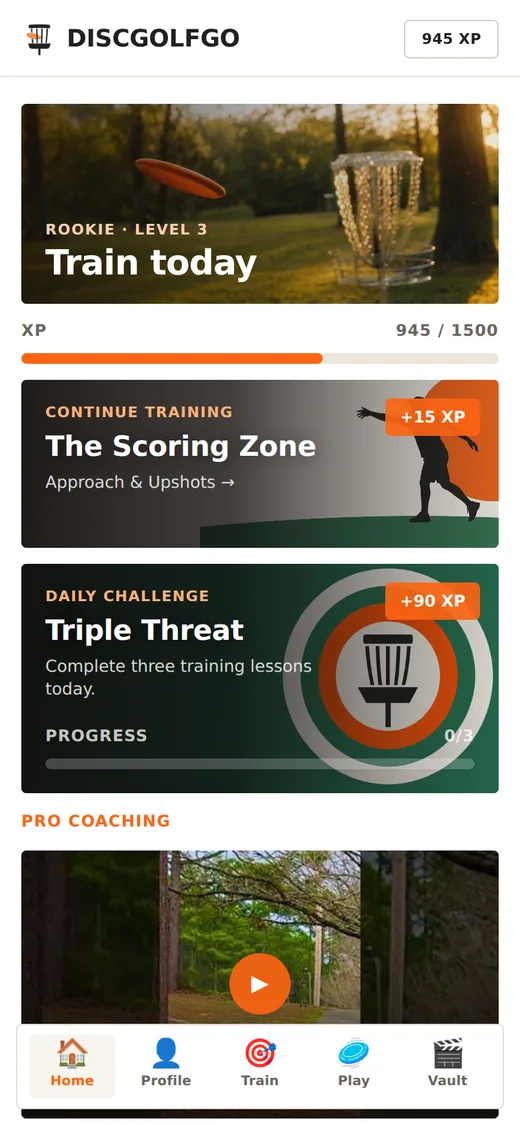
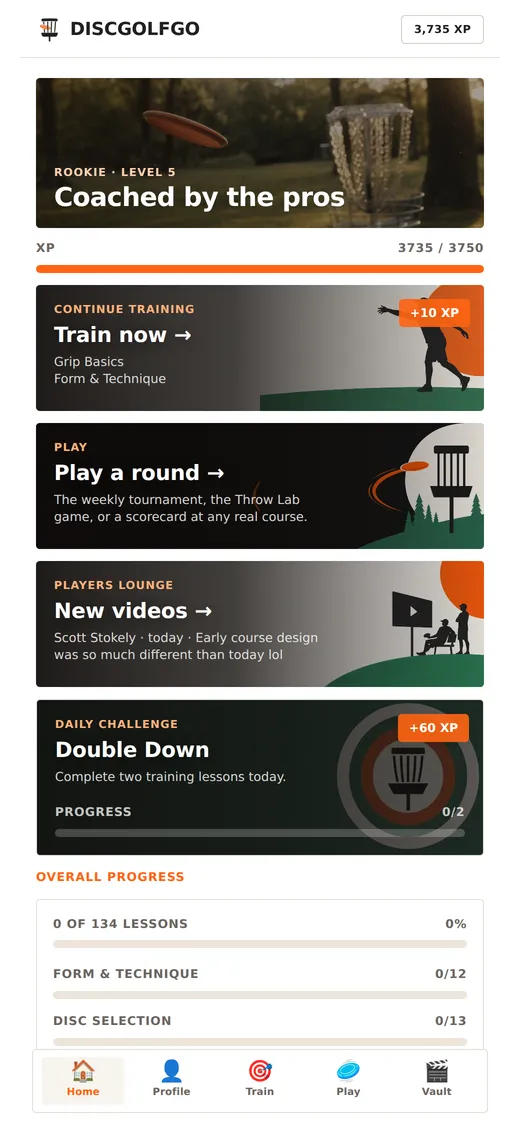
Bring the .com promo page up to date, and put the store badges in the hero (#28)
* Bring the .com promo page up to date with the app

The page still described the app as it stood before the tournament, the
boards and the lounge existed.

Added a Compete section -- the weekly tournament (one course, everyone,
two attempts, spent on tee-off), the leaderboards and the career record
-- plus a Players Lounge card in How it works, a hero bullet for the
tournament, a nav link, and a line in the training section saying fresh
coaching videos arrive filtered to the ones that teach.

Every number was re-checked against the data rather than trusted: 134
lessons, 13 skill paths, all thirteen per-category counts, 1,536 courses,
21 hole templates and 13 named pros are all still correct, and each of
the 13 pros was verified to appear as a creator in the library. The only
drift was videos 198 -> 200, in four places including a bare number in
the stat strip that a phrase match missed.

The meta description, the SoftwareApplication description and the FAQ
were updated, with two new FAQs kept in step across both the visible
list and the FAQPage data.

The three "Inside the app" screenshots were stale again -- the home shot
still read "Train today", a headline retired weeks ago, and predated the
Play and Players Lounge cards -- so all three were re-captured from the
real app: home, a lesson, and the Players Lounge in place of the
Creators vault. Thumbnails were served from local copies through route
interception rather than by relaxing TLS in the browser.
[…]

diff --git a/web/promo.html b/web/promo.html
@@ -8,19 +8,19 @@
   <link rel="icon" href="/favicon.ico?v=4" sizes="any" />
   <link rel="icon" type="image/png" sizes="32x32" href="/favicon-32.png?v=4" />
   <link rel="apple-touch-icon" href="/apple-touch-icon.png?v=4" />
-  <meta name="description" content="Disc Golf Go: learn from 13 of the world's top touring pros across 134 video lessons, play the built-in Throw Lab disc golf game, earn XP and check in at 1,500+ real courses. Free to start." />
+  <meta name="description" content="Disc Golf Go: learn from 13 of the world's top touring pros across 134 video lessons, play the built-in Throw Lab disc golf game, enter a new tournament every week, and check in at 1,500+ real courses. Free to start." />
   <link rel="canonical" href="https://discgolfgo.com/" />
 
   <!-- Open Graph (Facebook, iMessage, Slack, LinkedIn) -->
   <meta property="og:site_name" content="Disc Golf Go" />
   <meta property="og:title" content="Disc Golf Go — Coached by the pros" />
-  <meta property="og:description" content="13 touring pros. 134 video lessons. 198 videos. Train like a pro and lower your score — free on iOS &amp; Android." />
+  <meta property="og:description" content="13 touring pros. 134 video lessons. 200 videos. Train like a pro and lower your score — free on iOS &amp; Android." />
   <meta property="og:type" content="website" />
   <meta property="og:url" content="https://discgolfgo.com/" />
   <meta property="og:image" content="https://discgolfgo.com/img/og-cover.png?v=2" />
   <meta property="og:image:width" content="1200" />
   <meta property="og:image:height" content="630" />
-  <meta property="og:image:alt" content="Disc Golf Go — 13 touring pros, 134 video lessons, 198 videos." />
+  <meta property="og:image:alt" content="Disc Golf Go — 13 touring pros, 134 video lessons, 200 videos." />
 
   <!-- Twitter / X -->
   <meta name="twitter:card" content="summary_large_image" />
@@ -52,7 +52,7 @@
         "name": "Disc Golf Go",
         "operatingSystem": "iOS, Android",
         "applicationCategory": "SportsApplication",
-        "description": "A disc golf training app: 134 video lessons coached by 13 touring pros, the Throw Lab throwing game, XP progression, a daily challenge, and check-ins at 1,500+ real courses.",
+        "description": "A disc golf training app: 134 video lessons coached by 13 touring pros, the Throw Lab throwing game, a weekly tournament, leaderboards and a career record, the Players Lounge video feed, XP progression, a daily challenge, and check-ins at 1,500+ real courses.",
         "url": "https://discgolfgo.com/",
         "downloadUrl": [
           "https://apps.apple.com/us/app/disc-golf-go/id6768128686",
@@ -75,6 +75,10 @@
     .pro-chip b{color:var(--color-orange,#fa5e0f);}
     .stores{display:flex;gap:14px 18px;justify-content:center;align-items:center;flex-wrap:wrap;margin-top:24px;}
     .badge{display:block;height:54px;width:auto;}
+    /* In the hero the badges follow a left-aligned CTA, so they start at the
+       same edge rather than centring like the pair at the foot of the page. */
+    .stores--hero{justify-content:flex-start;gap:10px 12px;margin-top:18px;}
+    @media(max-width:900px){.stores--hero{justify-content:center;}}
     /* Google's badge PNG has built-in clear-space padding — size it up so it visually matches Apple's pill */
     .badge-google{height:62px;margin:-4px 0;}
     .store{display:inline-flex;align-items:center;gap:10px;background:var(--color-ink,#2b2622);color:#fff;
@@ -136,6 +140,7 @@
       <a class="nav__link" href="#learn">Training</a>
       <a class="nav__link" href="#levelup">How it works</a>
       <a class="nav__link" href="#game">Throw Lab</a>
+      <a class="nav__link" href="#compete">Compete</a>
     </div>
     <a class="btn" href="https://discgolfgo.app/login">Open App</a>
   </nav>
@@ -151,18 +156,33 @@
         </h1>
         <p class="hero__sub">Disc Golf Go turns pro coaching into lower scores — learn from 13 touring pros, earn XP, and take it to the course.</p>
 
-        <ul class="bullets">
-          <li class="bullet"><span class="bullet__ic" aria-hidden="true">★</span><div><b>Learn from 13 touring pros</b> — <span>Gannon Buhr, Ricky Wysocki, Paul McBeth, Kristin Tattar & more</span></div></li>
-          <li class="bullet"><span class="bullet__ic" aria-hidden="true">▶</span><div><b>134 coached lessons</b> — <span>198 videos across 13 skill paths, each with the key takeaways</span></div></li>
-          <li class="bullet"><span class="bullet__ic" aria-hidden="true">▲</span><div><b>Level up your game</b> — <span>earn XP, complete daily missions, climb the ranks</span></div></li>
-          <li class="bullet"><span class="bullet__ic" aria-hidden="true">◎</span><div><b>Play for real</b> — <span>check in at 1,500+ courses and apply your training</span></div></li>
-          <li class="bullet"><span class="bullet__ic" aria-hidden="true">◉</span><div><b>Throw Lab</b> — <span>a disc golf game built in — play a quick round anywhere</span></div></li>
-        </ul>
-
         <div class="hero__cta">
           <a class="btn btn--lg" href="https://discgolfgo.app/register">Start Training — Free</a>
           <a class="btn btn--ghost btn--lg" href="https://discgolfgo.app/login">Open the App</a>
         </div>
+
+        <!-- The store badges also sit at the foot of the page. Someone who
+             arrives wanting the app should not have to read the whole thing to
+             find them. Only the two badges here -- the browser route is
+             already the button directly above. -->
+        <div class="stores stores--hero">
+          <a href="https://apps.apple.com/us/app/disc-golf-go/id6768128686" target="_blank" rel="noopener" aria-label="Download Disc Golf Go on the App Store">
+            <img class="badge badge-apple" src="/img/appstore-badge.svg" alt="Download on the App Store" width="162" height="54" />
+          </a>
+          <a href="https://play.google.com/store/apps/details?id=the.discgolfgo.app" target="_blank" rel="noopener" aria-label="Get Disc Golf Go on Google Play">
+            <img class="badge badge-google" src="/img/googleplay-badge.png" alt="Get it on Google Play" width="160" height="62" />
+          </a>
+        </div>
+
+        <ul class="bullets">
+          <li class="bullet"><span class="bullet__ic" aria-hidden="true">★</span><div><b>Learn from 13 touring pros</b> — <span>Gannon Buhr, Ricky Wysocki, Paul McBeth, Kristin Tattar & more</span></div></li>
+          <li class="bullet"><span class="bullet__ic" aria-hidden="true">▶</span><div><b>134 coached lessons</b> — <span>200 videos across 13 skill paths, each with the key takeaways</span></div></li>
+          <li class="bullet"><span class="bullet__ic" aria-hidden="true">▲</span><div><b>Level up your game</b> — <span>earn XP, complete daily missions, climb the ranks</span></div></li>
+          <li class="bullet"><span class="bullet__ic" aria-hidden="true">◎</span><div><b>Play for real</b> — <span>check in at 1,500+ courses and apply your training</span></div></li>
+          <li class="bullet"><span class="bullet__ic" aria-hidden="true">◉</span><div><b>Throw Lab</b> — <span>a disc golf game built in — play a quick round anywhere</span></div></li>
+          <li class="bullet"><span class="bullet__ic" aria-hidden="true">△</span><div><b>A tournament every week</b> — <span>one course, everyone, two attempts — then see where you placed</span></div></li>
+        </ul>
+
       </div>
 
       <div class="hero__media">
@@ -182,7 +202,7 @@
       </div>
       <div class="shots">
         <figure class="shot">
-          <img src="/img/shot-home.webp" width="520" height="1125" loading="lazy" alt="The Disc Golf Go home screen: a Rookie level 3 XP bar, the next lesson to continue, today's challenge, and the Throw Lab card" />
+          <img src="/img/shot-home.webp" width="520" height="1125" loading="lazy" alt="The Disc Golf Go home screen: an XP bar, cards to continue training, play a round and open the Players Lounge, and today's challenge" />
           <figcaption class="shot__cap"><b>Home</b> — pick up where you left off</figcaption>
         </figure>
         <figure class="shot">
@@ -190,8 +210,8 @@
           <figcaption class="shot__cap"><b>Lessons</b> — a pro video plus the key takeaways</figcaption>
         </figure>
         <figure class="shot">
-          <img src="/img/shot-creators.webp" width="520" height="1125" loading="lazy" alt="The Creators vault listing pro coaches and the videos unlocked so far" />
-          <figcaption class="shot__cap"><b>Creators</b> — unlock a pro with every lesson</figcaption>
+          <img src="/img/shot-lounge.webp" width="520" height="1125" loading="lazy" alt="The Players Lounge: the newest videos from the disc golf channels, each with a thumbnail, the channel name and how long ago it was posted" />
+          <figcaption class="shot__cap"><b>Players Lounge</b> — the newest videos, every day</figcaption>
         </figure>
       </div>
     </div>
@@ -209,7 +229,7 @@
         <div class="statbig"><div class="statbig__n">13</div><div class="statbig__l">Touring pros</div></div>
         <div class="statbig"><div class="statbig__n">77</div><div class="statbig__l">Pro-coached videos</div></div>
         <div class="statbig"><div class="statbig__n">134</div><div class="statbig__l">Lessons</div></div>
-        <div class="statbig"><div class="statbig__n">198</div><div class="statbig__l">Videos in all</div></div>
+        <div class="statbig"><div class="statbig__n">200</div><div class="statbig__l">Videos in all</div></div>
       </div>
       <div class="pros-names">
         <span class="pro-chip"><b>Gannon Buhr</b></span>
@@ -235,7 +255,7 @@
       <div class="sect__head">
         <p class="sect__eyebrow">The curriculum</p>
         <h2 class="sect__title">13 skill paths. 134 coached lessons.</h2>
-        <p class="sect__lede">Every lesson pairs a pro instructional video with the key takeaways and a companion guide — from your first grip to tournament nerves.</p>
+        <p class="sect__lede">Every lesson pairs a pro instructional video with the key takeaways and a companion guide — from your first grip to tournament nerves. New coaching videos land beside them as the channels post them, filtered down to the ones that actually teach.</p>
       </div>
       <div class="numlist">
         <div class="numrow"><div><div class="numrow__name">Getting Started</div><div class="numrow__meta">New player? Everything for your first round</div></div><span class="numrow__num">7 lessons</span></div>
@@ -278,6 +298,13 @@
           <h3 class="fcard__title">Apply it on course</h3>
           <p class="fcard__body">Check in at 1,500+ real courses across the country and put your training to work where it counts.</p>
         </article>
+        <article class="fcard">
+          <div class="fcard__ic" aria-hidden="true">▷</div>
+          <h3 class="fcard__title">The Players Lounge</h3>
+          <p class="fcard__body">The newest videos from 27 disc golf channels, pulled in every
+            day — rounds, reviews, vlogs and coaching, all in one place, with the rest of each
+            creator's uploads a tap away.</p>
+        </article>
       </div>
     </div>
   </section>
@@ -307,6 +334,42 @@
           <li><b>It counts toward your game</b>Rounds earn XP, drive daily, weekly, monthly and
             lifetime challenges, and rank you on a Throw Lab leaderboard of its own.</li>
         </ul>
+      </div>
+    </div>
+  </section>
+
+  <!-- Compete: the weekly tournament and the boards it feeds -->
+  <section class="sect sect--peach" id="compete">
+    <div class="sect__inner">
+      <div class="sect__head">
+        <p class="sect__eyebrow">New · Compete</p>
+        <h2 class="sect__title">One course. Everyone. Two shots at it.</h2>
+        <p class="sect__lede">Every Monday a course is drawn at random and it is the same
+          eighteen holes for every player in the app. You get two attempts at it — and an
+          attempt is spent the moment you tee off, so walking away from a bad start costs you
+          one. Best of the two counts.</p>
+      </div>
+      <div class="fgrid">
+        <article class="fcard">
+          <div class="fcard__ic" aria-hidden="true">△</div>
+          <h3 class="fcard__title">The weekly tournament</h3>
+          <p class="fcard__body">The same 18 holes for everyone, a fresh course each week. Ties
+            go to whoever posted first, so there is a reason to play early.</p>
+        </article>
+        <article class="fcard">
+          <div class="fcard__ic" aria-hidden="true">≡</div>
+          <h3 class="fcard__title">Boards for everything</h3>
+          <p class="fcard__body">Training, Throw Lab and the tournament each get their own
+            leaderboard — ranked by XP, best round, best 18, aces, courses played, wins and
+            podiums, with your own row marked wherever you land.</p>
+        </article>
+        <article class="fcard">
+          <div class="fcard__ic" aria-hidden="true">▦</div>
+          <h3 class="fcard__title">Your record</h3>
+          <p class="fcard__body">Rounds played, holes, courses, best round, aces, birdies a
+            round, average against par, tournament weeks, wins and podiums — every figure
+            counted from the rounds themselves, so none of it can drift.</p>
+        </article>
       </div>
     </div>
   </section>
@@ -349,6 +412,8 @@
         <details class="faq"><summary>What disc should a beginner throw?</summary><p>Start with a putter and a lightweight, understable midrange or fairway driver. Lighter, understable plastic is easier to throw straight and flies farther for a new player than a fast, overstable distance driver. See our beginner disc guide for specifics.</p></details>
         <details class="faq"><summary>Do I need to be at a course to use the app?</summary><p>No. The training lessons work anywhere with no GPS required — practice in your yard or study on the couch, and play a Throw Lab round wherever you are. GPS is only used for optional course check-ins when you want to log a round at one of 1,500+ real courses.</p></details>
         <details class="faq"><summary>What is Throw Lab?</summary><p>Throw Lab is a disc golf game built into the app. You tap to set your power and your release angle, and the disc flies on its real flight numbers — fade and all. Play a quick 3, 6 or 9-hole round on one of 21 hand-drawn holes, or pick any of 1,500+ real courses and play its actual holes and lengths. Rounds earn XP, advance daily, weekly, monthly and lifetime challenges, and rank you on a Throw Lab leaderboard of its own.</p></details>
+        <details class="faq"><summary>Is there a tournament?</summary><p>Yes — a new one every week. One course is drawn at random on Monday and it is the same 18 holes for every player in the app. You get two attempts, and an attempt is spent the moment you tee off, so leaving a bad round part-way through still uses one. The better of your two scores counts, and ties go to whoever posted first.</p></details>
+        <details class="faq"><summary>What is the Players Lounge?</summary><p>A feed of the newest videos from 27 disc golf channels — tournament coverage, disc reviews, vlogs and coaching — refreshed every day. The ten most recent sit at the top and the rest are grouped by creator. Instructional videos are also filtered out into the training section, so lessons and entertainment stay separate.</p></details>
         <details class="faq"><summary>How does earning XP work?</summary><p>You earn XP by completing lessons and a rotating daily challenge. XP raises your skill tier and climbs the leaderboard, and finishing a lesson unlocks that pro's video in your Creators vault.</p></details>
       </div>
     </div>
@@ -365,6 +430,8 @@
       {"@type":"Question","name":"What disc should a beginner throw?","acceptedAnswer":{"@type":"Answer","text":"Start with a putter and a lightweight, understable midrange or fairway driver. Lighter, understable plastic is easier to throw straight and flies farther for a new player than a fast, overstable distance driver."}},
       {"@type":"Question","name":"Do I need to be at a course to use the app?","acceptedAnswer":{"@type":"Answer","text":"No. The training lessons work anywhere with no GPS required, and you can play a Throw Lab round wherever you are. GPS is only used for optional course check-ins when you want to log a round at one of 1,500+ real courses."}},
       {"@type":"Question","name":"What is Throw Lab?","acceptedAnswer":{"@type":"Answer","text":"Throw Lab is a disc golf game built into the Disc Golf Go app. You tap to set your power and your release angle, and the disc flies on its real flight numbers, fade included. Play a quick 3, 6 or 9-hole round on one of 21 hand-drawn holes, or pick any of 1,500+ real courses and play its actual holes and lengths. Rounds earn XP, advance daily, weekly, monthly and lifetime challenges, and rank you on a Throw Lab leaderboard."}},
+      {"@type":"Question","name":"Is there a tournament?","acceptedAnswer":{"@type":"Answer","text":"Yes — a new one every week. One course is drawn at random on Monday and it is the same 18 holes for every player in the app. You get two attempts, and an attempt is spent the moment you tee off, so leaving a bad round part-way through still uses one. The better of your two scores counts, and ties go to whoever posted first."}},
+      {"@type":"Question","name":"What is the Players Lounge?","acceptedAnswer":{"@type":"Answer","text":"A feed of the newest videos from 27 disc golf channels — tournament coverage, disc reviews, vlogs and coaching — refreshed every day. The ten most recent sit at the top and the rest are grouped by creator. Instructional videos are also filtered out into the training section, so lessons and entertainment stay separate."}},
       {"@type":"Question","name":"How does earning XP work?","acceptedAnswer":{"@type":"Answer","text":"You earn XP by completing lessons and a rotating daily challenge. XP raises your skill tier and climbs the leaderboard, and finishing a lesson unlocks that pro's video in your Creators vault."}}
     ]
   }
@@ -379,10 +446,10 @@
     </div>
     <div class="stores">
       <a href="https://apps.apple.com/us/app/disc-golf-go/id6768128686" target="_blank" rel="noopener" aria-label="Download Disc Golf Go on the App Store">
-        <img class="badge badge-apple" src="/img/appstore-badge.svg" alt="Download on the App Store" />
+        <img class="badge badge-apple" src="/img/appstore-badge.svg" alt="Download on the App Store" width="162" height="54" />
       </a>
       <a href="https://play.google.com/store/apps/details?id=the.discgolfgo.app" target="_blank" rel="noopener" aria-label="Get Disc Golf Go on Google Play">
-        <img class="badge badge-google" src="/img/googleplay-badge.png" alt="Get it on Google Play" />
+        <img class="badge badge-google" src="/img/googleplay-badge.png" alt="Get it on Google Play" width="160" height="62" />
       </a>
       <a class="store" href="https://discgolfgo.app/register"><div><span>Or play now in</span>Your Browser</div></a>
     </div>

diff --git a/CLAUDE.md b/CLAUDE.md
@@ -110,6 +110,7 @@ Run in-process by `src/lib/scheduler.ts` (started after the server listens) — 
 Set `RUN_SCHEDULER=false` to disable (e.g. if the web service ever runs more than one instance, so jobs don't double-fire).
 
 ## Recent changes
+- 2026-09-28: **The .com promo page caught up with the app.** `web/promo.html` still described the app as it stood before the tournament, the boards and the lounge existed. Added: a **Compete** section (the weekly tournament — one course, everyone, two attempts, spent on tee-off — plus the leaderboards and the career record), a **Players Lounge** card in How it works, a hero bullet for the tournament, a nav link, and a line in the training section saying fresh coaching videos arrive filtered to the ones that teach. Every number on the page was re-checked against the data rather than trusted: **134 lessons, 13 skill paths, all thirteen per-category counts, 1,536 courses (1,500+), 21 hole templates and 13 named pros — all still correct, and every one of the 13 pros verified to appear as a creator in the library.** The only drift was **videos 198 → 200** (the three pro videos added this week), in four places including a bare number in the stat strip that a phrase match missed. The meta description, the `SoftwareApplication` description and the FAQ were updated, with **two new FAQs kept in step across both the visible list and the `FAQPage` data (9 and 9)**. The three "Inside the app" screenshots were stale again — the home shot still read "Train today", a headline retired weeks ago, and predated the Play and Players Lounge cards — so all three were re-captured from the real app (home, a lesson, and the Players Lounge in place of the Creators vault), thumbnails served from local copies through route interception rather than by relaxing TLS in the browser. Rendered and checked end to end by mapping `discgolfgo.com` to the local server in Chromium, since the promo page is chosen by hostname: 9 FAQs, no horizontal overflow, no page errors, no 4xx, and every image loading once scrolled. **The App Store and Google Play badges now also sit in the hero**, not only at the foot of the page — and the whole call to action moved **above the bullets**, because on a phone the badges were **1241px down**, below the fold behind six bullets; they are now at 829px on a 844px viewport and 547px on desktop. The hero pair is left-aligned to match its CTA and centres below 900px. Fixed while adding them: the Google Play `width` was wrong (209 implies a 3.37 ratio; the badge is 646×250, so 2.584) — a wrong ratio reserves the wrong box and shifts the page as it loads, the same class of bug as the old `height="904"` screenshots — now 160×62, with the App Store pair at 162×54 and dimensions added to the two at the foot, which had none.
 - 2026-09-28: **The lounge card is a card now, and it says what is in there.** Two fixes. (1) In the Vault the link was a plain text row sitting *below* `#view`, so whichever tab was open pushed it to the bottom of the page — and it was the same link on both tabs. It is now the `lounge.webp` **artcard, above the tabs**, where tab content cannot move it: measured at 132px on My Library and 132px on Creators, unmoved. (2) Everywhere it appeared the card just said **"Players Lounge"** — a label, not a reason to press it. `DGG.loungeSub()` (one copy, in `app.js`) now fills the sub with the most recent upload, so Home, Profile and the Vault all read e.g. "Scott Stokely · today · Early course design was so much different than today lol" and change daily; it fails silently, because the written fallback is already true. `.artcard__sub` is clamped to **two lines** so live text cannot make one card 162px beside its 126px neighbours, and the title went to "New videos →" so it fits a single line. Caught while verifying: retitling to "What's new" **silently killed Home and Profile** — that string lives inside a single-quoted JS string on those two pages, so the apostrophe ended the string and the whole page script with it. `app.js` changed, so the cache-buster went **`?v=w9` → `?v=w10`** across all 25 pages.
 - 2026-09-28: **A training feed beside the lounge, with a filter that earns the word "training".** Same pipeline, second gate. `GET /api/videos/teaching` serves only uploads that **teach**, and `/training` shows them as **New training videos** (five, expanding to twelve) above the categories — fresh instruction next to the curated library. Two gates decide it, both applied when the row is written: the channel must be one we trust (`teaches: false` keeps a pure-coverage channel like JomezPro in the lounge and out of training), and the title must pass **`src/modules/videos/teaches.ts`**, a rule deliberately **wrong in the safe direction** — it would rather miss a lesson than let a round of coverage sit under "new training videos". It was tuned against the real feed, not invented: an early keyword pass ran ~50% precision, and the shipped rule accepts **42 of 249** with every one reviewed by hand and none a false positive, after adding the shapes that teach without saying "how to" ("Your footwork is killing your backhand", "Is Your Grip Costing You Distance?", "Grip Deep Dive") and excluding product roundups, round coverage and channel business. The job reuses the TypeScript rule through ts-node so the patterns exist once, and reconciles the whole channel on each run so a rule change reaches the back catalogue. **On "top 30 pros who post instruction": there are none.** 22 pro channels were resolved and judged on what they actually upload — Paige Pierce 0/15, Eagle McMahon 0/15, James Conrad 0/15, Garrett Gurthie 0/15, Nate Sexton 0/6, Kristin Tattar 0/2, Chris Dickerson 0/6, Anthony Barela 0/6, Väinö Mäkelä 0/15, Albert Tamm 0/15. Touring pros vlog; the teaching comes from coaching and media channels already on the list (Overthrow 9/15, Danny Lindahl, BlitzDG, JustDisc, Latitude 64, Disc Golf Strong, Gannon Buhr). The filter also caught two channels that never belonged: **"Coach Reese"** is a schoolteacher who plays ball golf (3rd-grade maths lessons, "#golf" wedge shots) and was in the list on the strength of its name — **removed**; and a "Matt Bell" that is a Blender/Houdini tutorial channel, never added.
 - 2026-09-28: **The lounge takes everything, so one channel can no longer own it.** The Players Lounge is not a lesson list — it shows whatever the channels post, rounds and reviews and vlogs and coverage included; teaching videos are curated separately, lesson by lesson, in the training library. The copy now says that, and the channel list's criterion changed with it: a channel earns its place by being worth watching rather than by being instructional, which is why **JomezPro** — dropped earlier precisely for being coverage — is back in (28 channels). That immediately broke the Newest list: Jomez posts four round-coverage videos on an event day and took **six of the ten slots**, burying the other twenty-seven channels. Newest is now capped at **`PER_CHANNEL_CAP` = 2 per channel** (8 distinct channels in the ten, verified), and because the creator lists are defined as *exactly* what Newest is not showing — both reads share one `NEWEST_SET` CTE — a video is still in precisely one place: 10 + 243 = 253, the whole feed.
